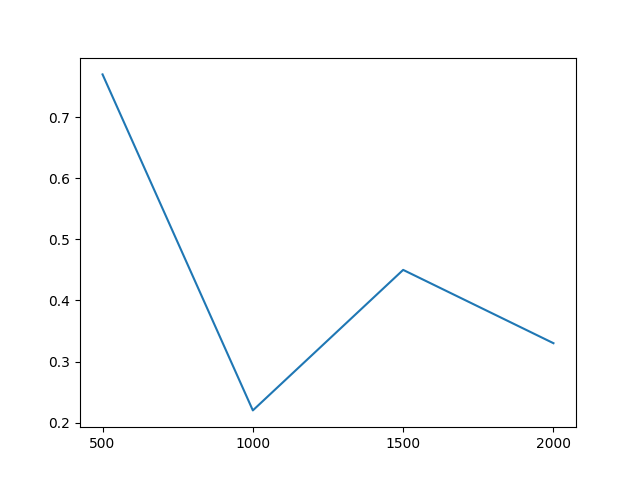
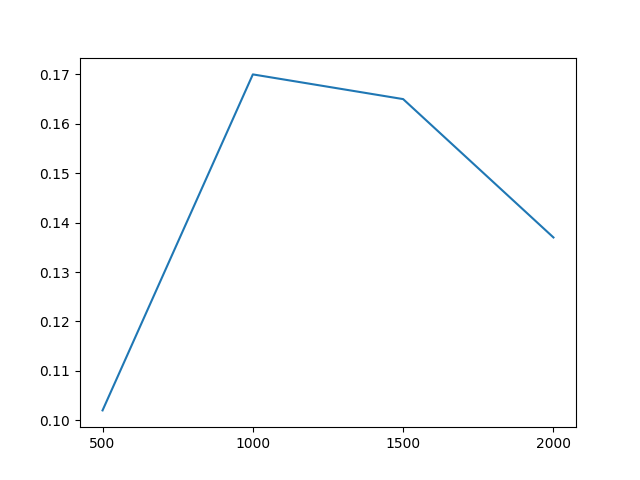
Generated plots by averaging over seeds

diff --git a/env.py b/env.py
@@ -11,7 +11,7 @@ import numpy as np
 
 parser = argparse.ArgumentParser()
 parser.add_argument('-T', '--horizon', type=int, help="Enter horizon")
-parser.add_argument('-S', '--seed', type=int, help="Enter seed")
+parser.add_argument('-S', '--seed', type=int, help="Enter seed", required = False, default = 100)
 args = parser.parse_args()
 
 np.random.seed(args.seed)
@@ -23,21 +23,21 @@ for i in range(num_arms):
     arms.append(arm)
     m = max(m, arm.mean)
 
-alg = UCB(num_arms,args.horizon)
-total_reward = 0
+# alg = UCB(num_arms,args.horizon)
+# total_reward = 0
 
-for i in range(args.horizon):
-    index = alg.give_pull()
-    reward = arms[index].pull_arm()
-    alg.get_reward(index, reward)
-    total_reward += reward
+# for i in range(args.horizon):
+#     index = alg.give_pull()
+#     reward = arms[index].pull_arm()
+#     alg.get_reward(index, reward)
+#     total_reward += reward
 
-print(round(m - total_reward/args.horizon,2))
+# print(round(m - total_reward/args.horizon,2))
 
 rho = 0.75
 mrho = sorted([x.mean for x in arms])[int(num_arms * rho)]
 prob = [1 / num_arms] * num_arms
-alg = QRM1(arms, prob, rho, num_arms, args.horizon)
+alg = QRM2(arms, prob, rho, num_arms, args.horizon)
 N = 0
 
 total_reward = 0

diff --git a/plot.py b/plot.py
@@ -2,17 +2,23 @@ import argparse
 from subprocess import run, PIPE
 from matplotlib import pyplot as plt
 
+seeds = [13, 69, 420, 666, 42, 0, 2012, 7, 747, 8]
 ap = argparse.ArgumentParser()
-ap.add_argument('-H', '--horizon', type = str, help = 'Enter horizons (comma-separated)')
-ap.add_argument('-N', '--name', type = str, help = 'Enter plot name')
+ap.add_argument('-H', '--horizon', type = str, help = 'Enter horizons (comma-separated)', required = True)
+ap.add_argument('-N', '--name', type = str, help = 'Enter plot name', required = True)
 args = ap.parse_args()
 name = args.name
 
 H = args.horizon.strip().split(',')
 R = []
 for h in H:
-    R.append(float(run(['python3', 'env.py', '-T', str(h)], stdout = PIPE).stdout.decode('utf-8')))
-    print(f'Horizon: {h}, Regret: {R[-1]}')
+    print(f'Horizon: {h}')
+    r = 0.0
+    for s in seeds:
+        print(f'Running for seed: {s}')
+        r += float(run(['python3', 'env.py', '-T', str(h), '-S', str(s)], stdout = PIPE).stdout.decode('utf-8'))
+    R.append(r / len(seeds))
+    print(f'Regret: {R[-1]}')
 
 print('Generating plot')
 plt.plot(H,R)

diff --git a/env2.py b/env2.py
@@ -12,7 +12,7 @@ import numpy as np
 
 parser = argparse.ArgumentParser()
 parser.add_argument('-T', '--horizon', type=int, help="Enter horizon")
-parser.add_argument('-S', '--seed', type=int, help="Enter seed")
+parser.add_argument('-S', '--seed', type=int, help="Enter seed", required = False, default = 100)
 args = parser.parse_args()
 
 np.random.seed(args.seed)
